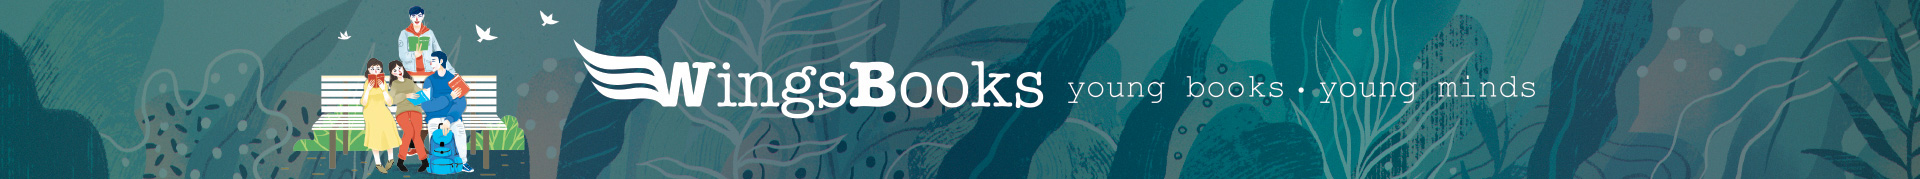
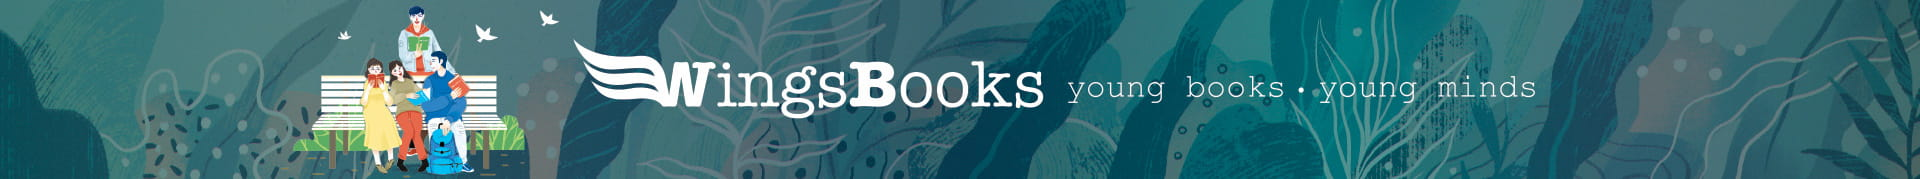
optimized static images

diff --git a/src/app/shared/constants/common.ts b/src/app/shared/constants/common.ts
@@ -2,6 +2,7 @@ import bannerCombo from "@app/assets/images/banner_combo.jpg";
 import bannerManga from "@app/assets/images/banner_manga.jpg";
 import bannerWingsbooks from "@app/assets/images/banner_wingsbooks.jpg";
 import imageNotFound from "@app/assets/images/image-not-found.jpg";
+import imageCategory from "@app/assets/images/image-category.jpg";
 import imagePaymentSuccessful from "@app/assets/images/image_payment_successful.png";
 import { PaginationOption } from "@core/services/http/http.service";
 import {
@@ -51,6 +52,7 @@ export {
   bannerWingsbooks,
   imageNotFound,
   imagePaymentSuccessful,
+  imageCategory,
 };
 
 export const PAGING_DEFAULT_LIMIT = 10;
